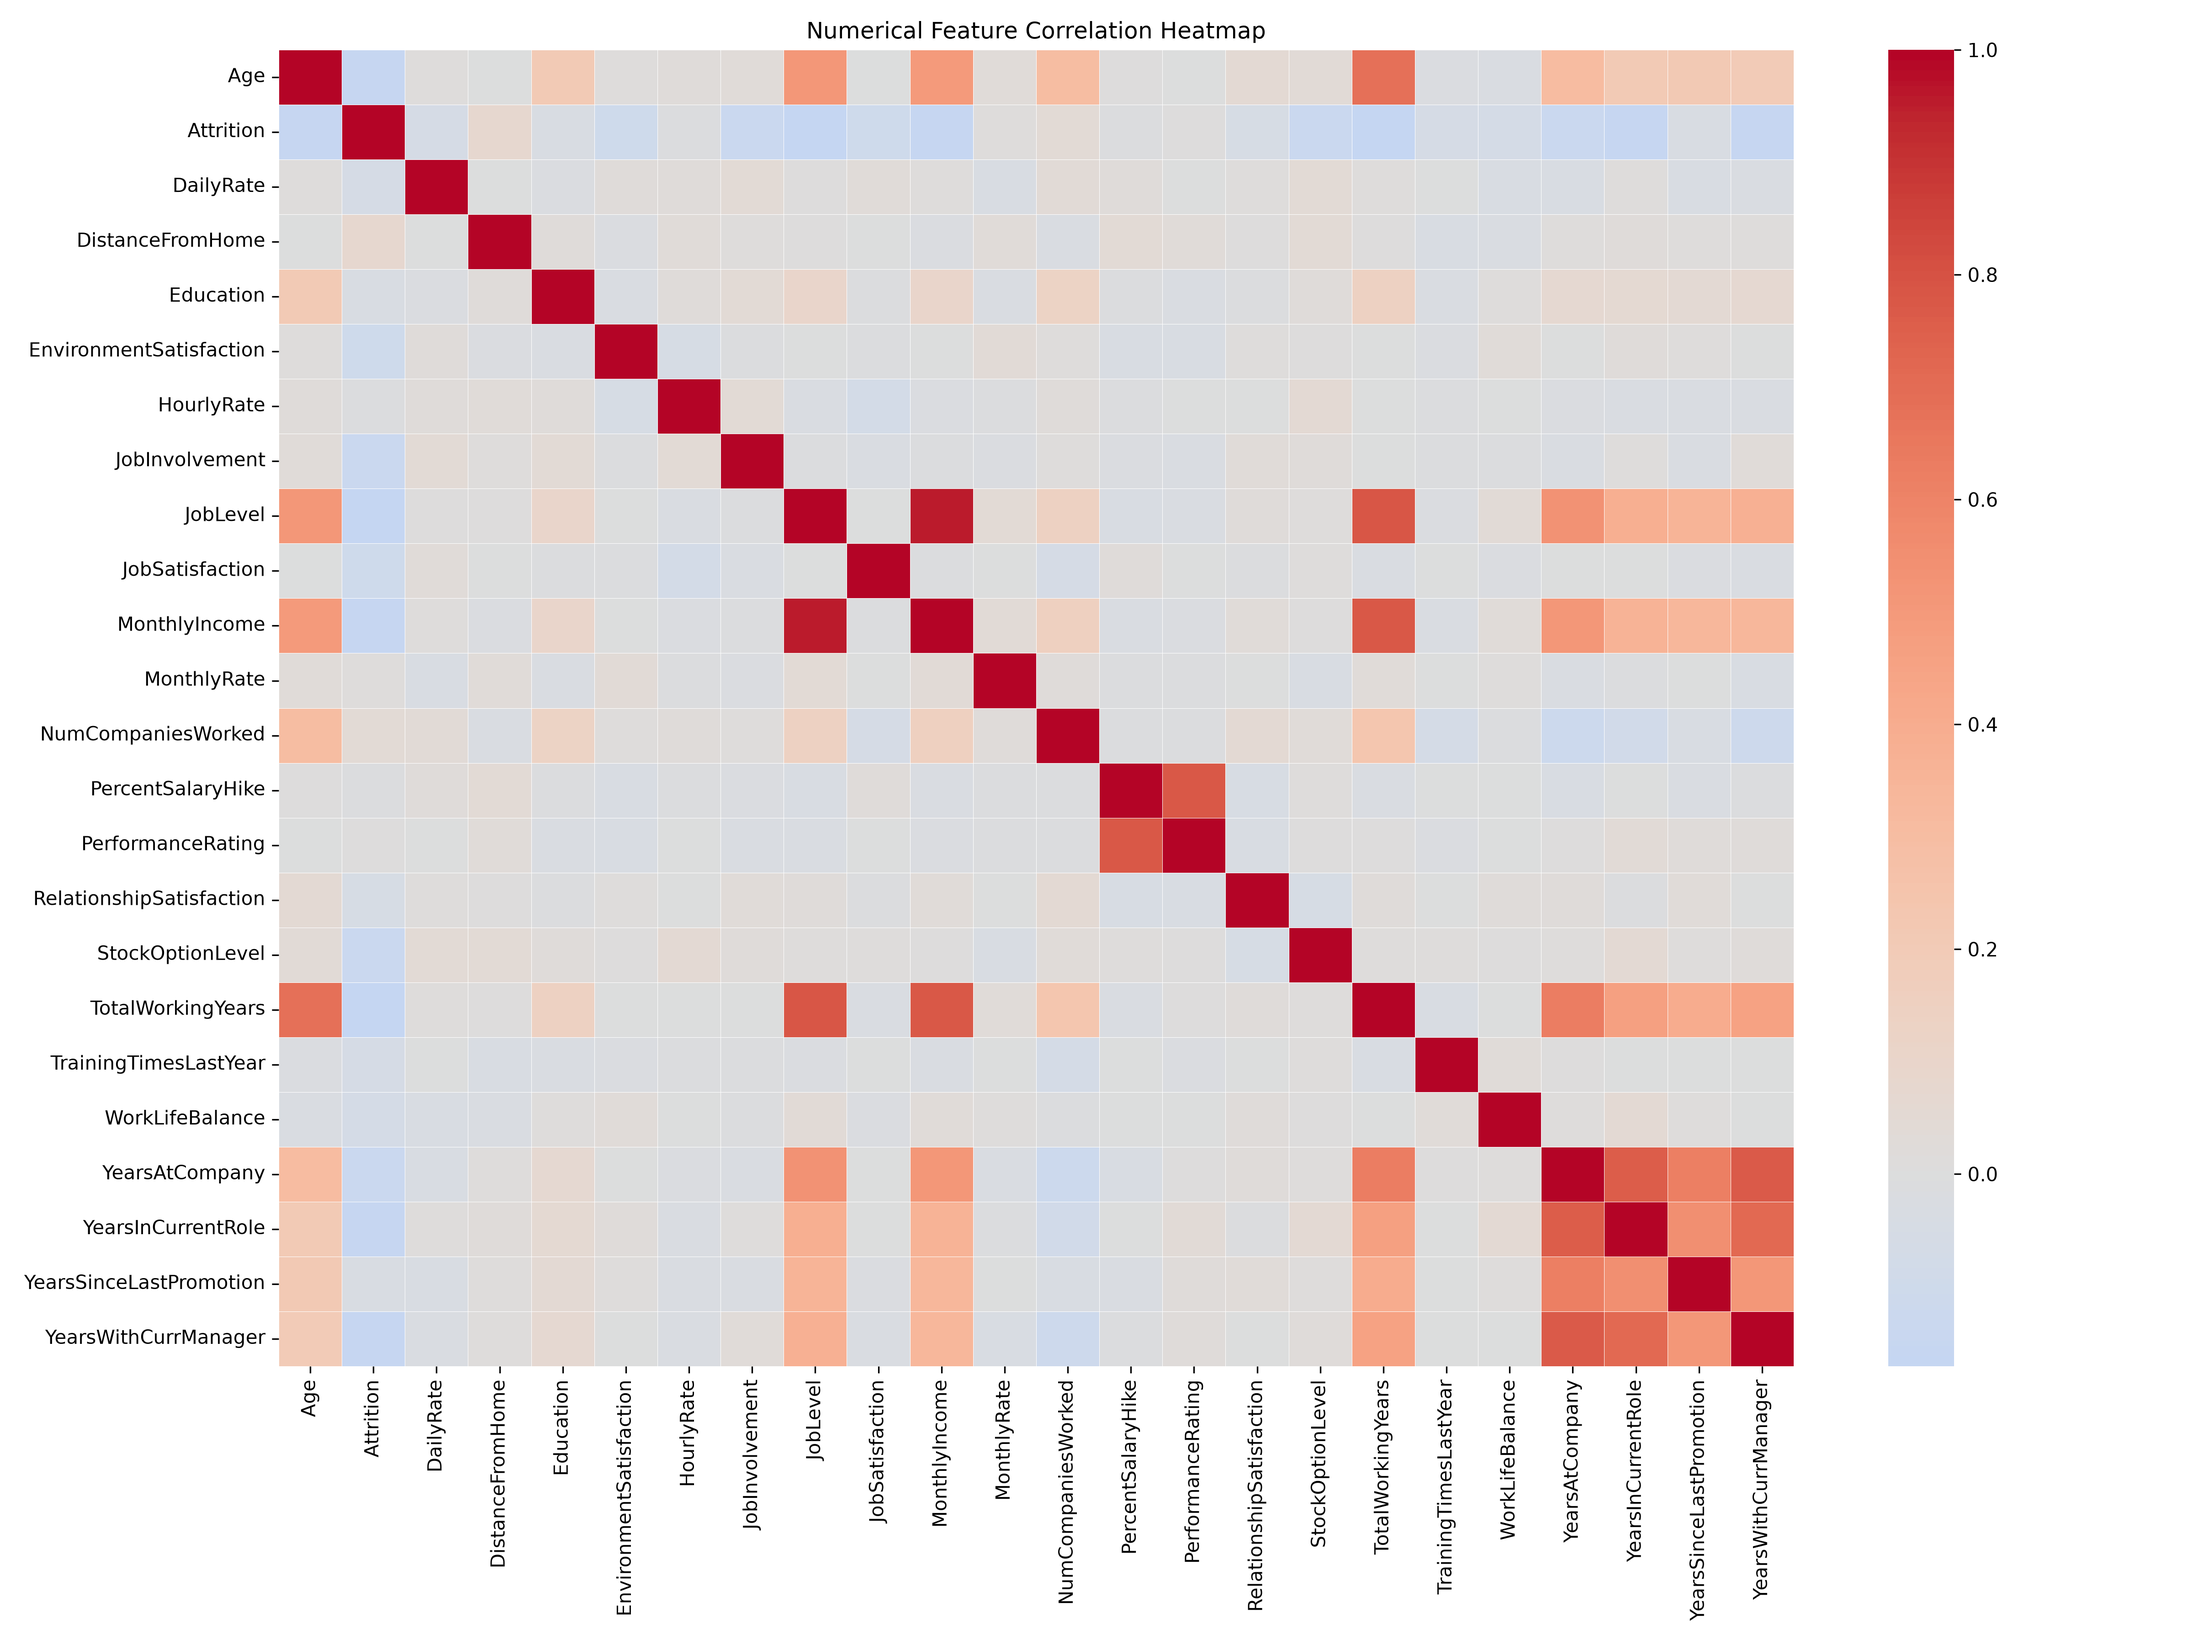
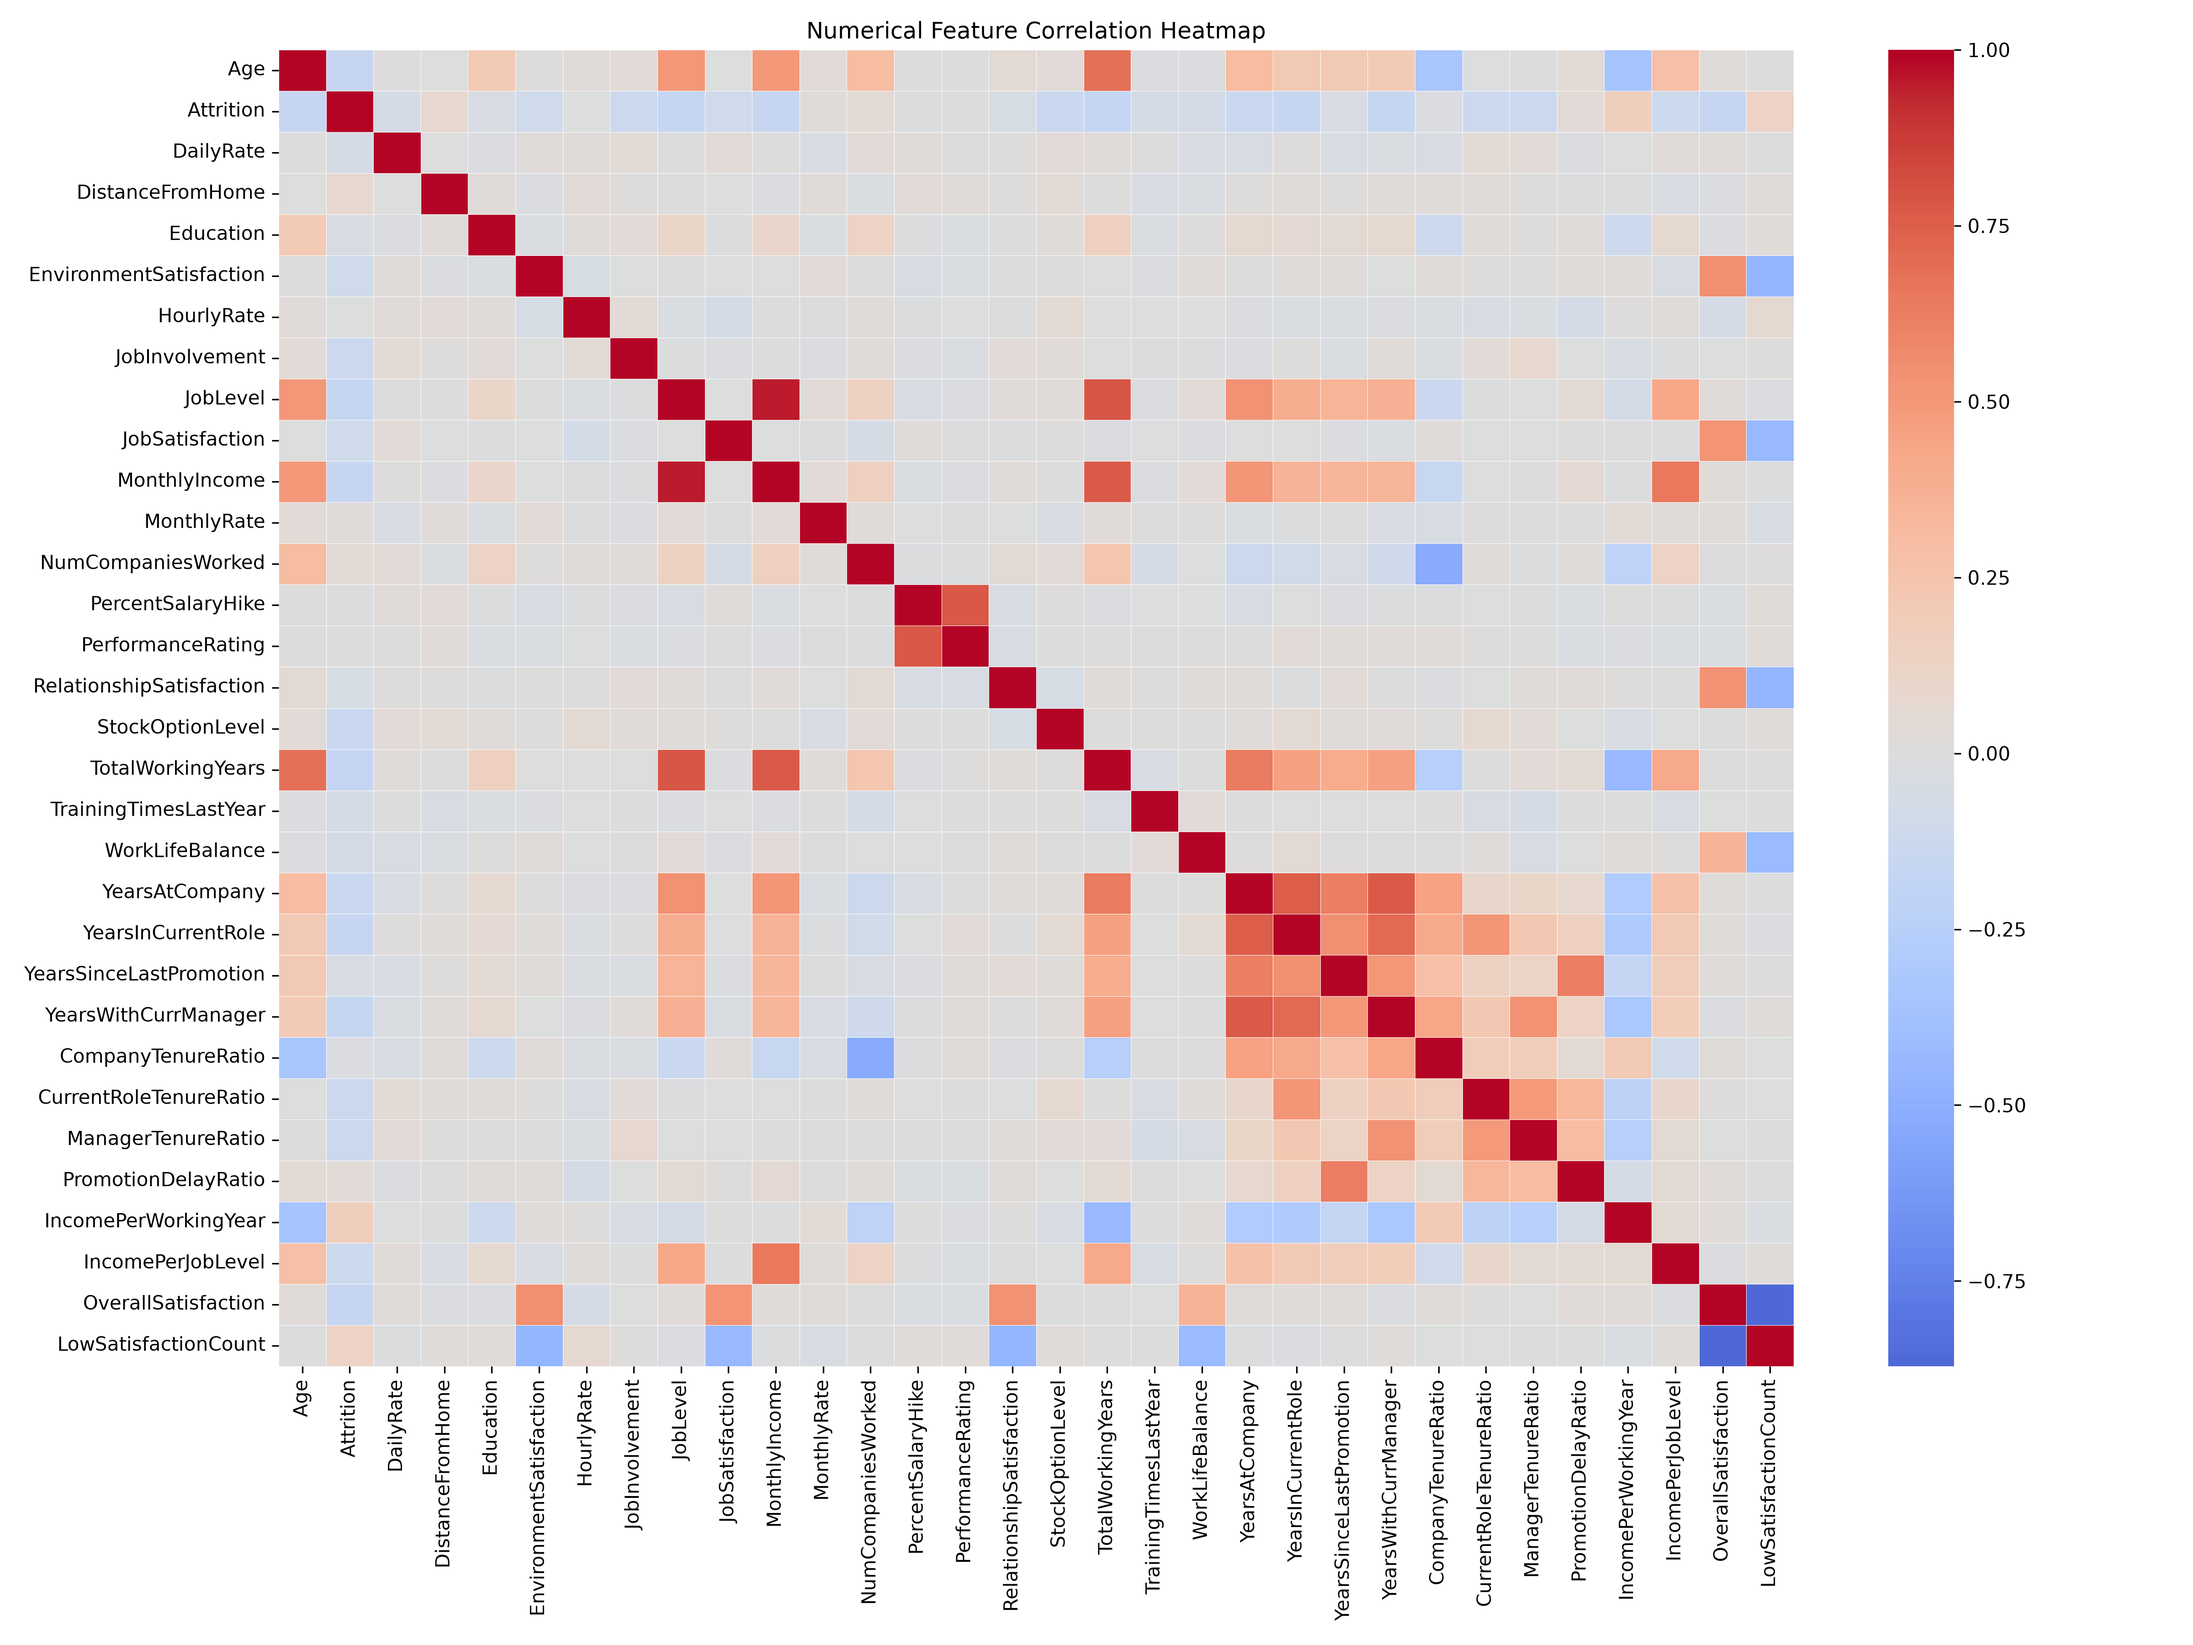
feat: add employee feature engineering

diff --git a/src/features/engineering.py b/src/features/engineering.py
@@ -1,0 +1,159 @@
+"""Feature engineering for the employee attrition dataset."""
+
+import numpy as np
+import pandas as pd
+
+
+class FeatureEngineer:
+    """Create reusable employee-related features."""
+
+    def __init__(self, target_column: str = "Attrition") -> None:
+        """
+        Initialize the feature engineer.
+
+        Args:
+            target_column: Name of the target variable.
+        """
+        self.target_column = target_column
+
+    @staticmethod
+    def _safe_divide(
+        numerator: pd.Series,
+        denominator: pd.Series,
+    ) -> pd.Series:
+        """
+        Safely divide two pandas Series.
+
+        Zero denominators are replaced with NaN before division.
+        Infinite and missing results are replaced with zero.
+        """
+        result = numerator / denominator.replace(0, np.nan)
+
+        return (
+            result.replace([np.inf, -np.inf], np.nan)
+            .fillna(0)
+        )
+
+    def add_experience_features(
+        self,
+        dataframe: pd.DataFrame,
+    ) -> pd.DataFrame:
+        """Create career and organizational experience ratios."""
+        engineered_dataframe = dataframe.copy()
+
+        engineered_dataframe["CompanyTenureRatio"] = self._safe_divide(
+            engineered_dataframe["YearsAtCompany"],
+            engineered_dataframe["TotalWorkingYears"],
+        )
+
+        engineered_dataframe["CurrentRoleTenureRatio"] = self._safe_divide(
+            engineered_dataframe["YearsInCurrentRole"],
+            engineered_dataframe["YearsAtCompany"],
+        )
+
+        engineered_dataframe["ManagerTenureRatio"] = self._safe_divide(
+            engineered_dataframe["YearsWithCurrManager"],
+            engineered_dataframe["YearsAtCompany"],
+        )
+
+        engineered_dataframe["PromotionDelayRatio"] = self._safe_divide(
+            engineered_dataframe["YearsSinceLastPromotion"],
+            engineered_dataframe["YearsAtCompany"],
+        )
+
+        return engineered_dataframe
+
+    @staticmethod
+    def add_compensation_features(
+        dataframe: pd.DataFrame,
+    ) -> pd.DataFrame:
+        """Create compensation-related features."""
+        engineered_dataframe = dataframe.copy()
+
+        engineered_dataframe["IncomePerWorkingYear"] = (
+            engineered_dataframe["MonthlyIncome"]
+            / engineered_dataframe["TotalWorkingYears"].replace(0, 1)
+        )
+
+        engineered_dataframe["IncomePerJobLevel"] = (
+            engineered_dataframe["MonthlyIncome"]
+            / engineered_dataframe["JobLevel"].replace(0, 1)
+        )
+
+        return engineered_dataframe
+
+    @staticmethod
+    def add_satisfaction_features(
+        dataframe: pd.DataFrame,
+    ) -> pd.DataFrame:
+        """Create aggregate employee satisfaction features."""
+        engineered_dataframe = dataframe.copy()
+
+        satisfaction_columns = [
+            "EnvironmentSatisfaction",
+            "JobSatisfaction",
+            "RelationshipSatisfaction",
+            "WorkLifeBalance",
+        ]
+
+        engineered_dataframe["OverallSatisfaction"] = (
+            engineered_dataframe[satisfaction_columns].mean(axis=1)
+        )
+
+        engineered_dataframe["LowSatisfactionCount"] = (
+            engineered_dataframe[satisfaction_columns]
+            .le(2)
+            .sum(axis=1)
+        )
+
+        return engineered_dataframe
+
+    @staticmethod
+    def add_career_stage_feature(
+        dataframe: pd.DataFrame,
+    ) -> pd.DataFrame:
+        """Create an ordinal career-stage feature from total experience."""
+        engineered_dataframe = dataframe.copy()
+
+        engineered_dataframe["CareerStage"] = pd.cut(
+            engineered_dataframe["TotalWorkingYears"],
+            bins=[-1, 2, 7, 15, float("inf")],
+            labels=[
+                "Early Career",
+                "Developing",
+                "Experienced",
+                "Senior",
+            ],
+        ).astype(str)
+
+        return engineered_dataframe
+
+    def transform(
+        self,
+        dataframe: pd.DataFrame,
+    ) -> pd.DataFrame:
+        """
+        Apply all feature-engineering transformations.
+
+        Returns:
+            DataFrame containing original and engineered features.
+        """
+        engineered_dataframe = dataframe.copy()
+
+        engineered_dataframe = self.add_experience_features(
+            engineered_dataframe
+        )
+
+        engineered_dataframe = self.add_compensation_features(
+            engineered_dataframe
+        )
+
+        engineered_dataframe = self.add_satisfaction_features(
+            engineered_dataframe
+        )
+
+        engineered_dataframe = self.add_career_stage_feature(
+            engineered_dataframe
+        )
+
+        return engineered_dataframe

diff --git a/src/pipeline.py b/src/pipeline.py
@@ -5,6 +5,7 @@ from typing import Any
 import pandas as pd
 
 from src.data import DataLoader, DataValidator
+from src.features import FeatureEngineer
 from src.preprocessing import DataCleaner
 from src.utils import Config
 from src.visualization import EDAAnalyzer
@@ -23,7 +24,10 @@ class EmployeeAttritionPipeline:
 
         self.data_validator = DataValidator(
             target_column=self.target_column,
-            required_columns=Config.get("data", "required_columns"),
+            required_columns=Config.get(
+                "data",
+                "required_columns",
+            ),
             expected_target_values=Config.get(
                 "data",
                 "expected_target_values",
@@ -46,6 +50,10 @@ class EmployeeAttritionPipeline:
             ),
         )
 
+        self.feature_engineer = FeatureEngineer(
+            target_column=self.target_column,
+        )
+
         self.eda_analyzer = EDAAnalyzer(
             target_column=self.target_column,
             figures_directory=Config.get(
@@ -60,10 +68,11 @@ class EmployeeAttritionPipeline:
 
     def run_data_pipeline(self) -> pd.DataFrame:
         """
-        Run data loading, validation, cleaning, saving, and EDA.
+        Run data loading, validation, cleaning, feature engineering,
+        saving, and exploratory data analysis.
 
         Returns:
-            Cleaned employee attrition dataset.
+            Processed employee attrition dataset.
         """
         raw_dataframe = self.data_loader.load()
 
@@ -75,47 +84,57 @@ class EmployeeAttritionPipeline:
             raw_dataframe
         )
 
+        engineered_dataframe = self.feature_engineer.transform(
+            cleaned_dataframe
+        )
+
         self.data_cleaner.save(
-            cleaned_dataframe,
-            Config.get("paths", "interim_data"),
+            engineered_dataframe,
+            Config.get("paths", "processed_data"),
         )
 
         eda_summary = self.eda_analyzer.run(
-            cleaned_dataframe
+            engineered_dataframe
         )
 
         self._display_data_pipeline_summary(
             raw_dataframe=raw_dataframe,
-            cleaned_dataframe=cleaned_dataframe,
+            processed_dataframe=engineered_dataframe,
             validation_report=validation_report,
             eda_summary=eda_summary,
         )
 
-        return cleaned_dataframe
+        return engineered_dataframe
 
     @staticmethod
     def _display_data_pipeline_summary(
         raw_dataframe: pd.DataFrame,
-        cleaned_dataframe: pd.DataFrame,
+        processed_dataframe: pd.DataFrame,
         validation_report: dict[str, Any],
         eda_summary: dict[str, Any],
     ) -> None:
         """Display a concise summary of the completed data pipeline."""
         removed_columns = sorted(
             set(raw_dataframe.columns)
-            - set(cleaned_dataframe.columns)
+            - set(processed_dataframe.columns)
+        )
+
+        added_columns = sorted(
+            set(processed_dataframe.columns)
+            - set(raw_dataframe.columns)
         )
 
         print("=" * 60)
-        print("DAY 1 DATA PIPELINE COMPLETED")
+        print("DATA PIPELINE COMPLETED")
         print("=" * 60)
         print(
             f"Validation passed: "
             f"{validation_report['validation_passed']}"
         )
         print(f"Raw shape: {raw_dataframe.shape}")
-        print(f"Cleaned shape: {cleaned_dataframe.shape}")
+        print(f"Processed shape: {processed_dataframe.shape}")
         print(f"Removed columns: {removed_columns}")
+        print(f"Engineered columns: {added_columns}")
         print(
             f"Duplicate rows: "
             f"{validation_report['duplicate_rows']}"
@@ -133,8 +152,8 @@ class EmployeeAttritionPipeline:
             f"{len(eda_summary['categorical_columns'])}"
         )
         print(
-            "Cleaned data saved to:",
-            Config.get("paths", "interim_data"),
+            "Processed data saved to:",
+            Config.get("paths", "processed_data"),
         )
         print(
             "Figures saved to:",

diff --git a/src/features/__init__.py b/src/features/__init__.py
@@ -1,0 +1,5 @@
+"""Feature engineering package."""
+
+from .engineering import FeatureEngineer
+
+__all__ = ["FeatureEngineer"]
